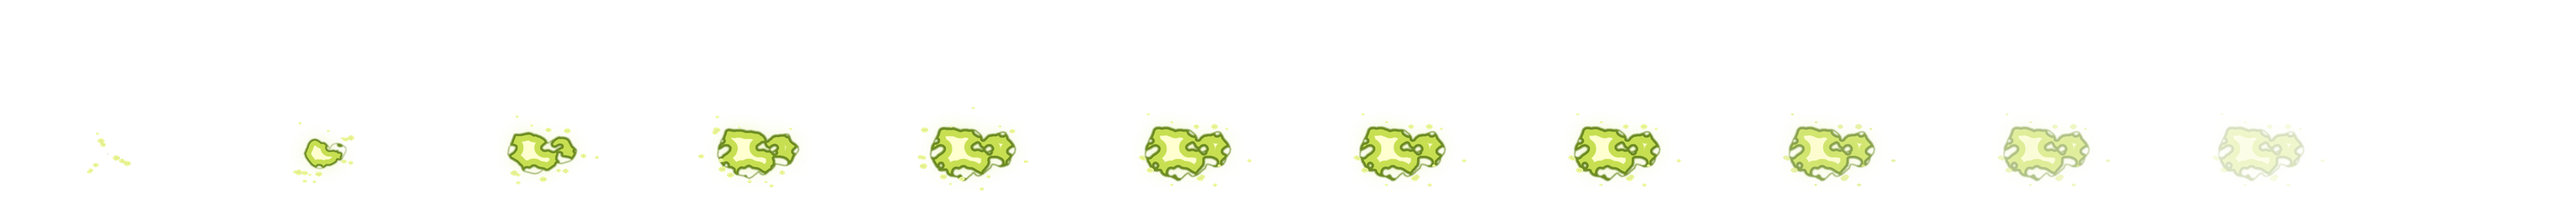
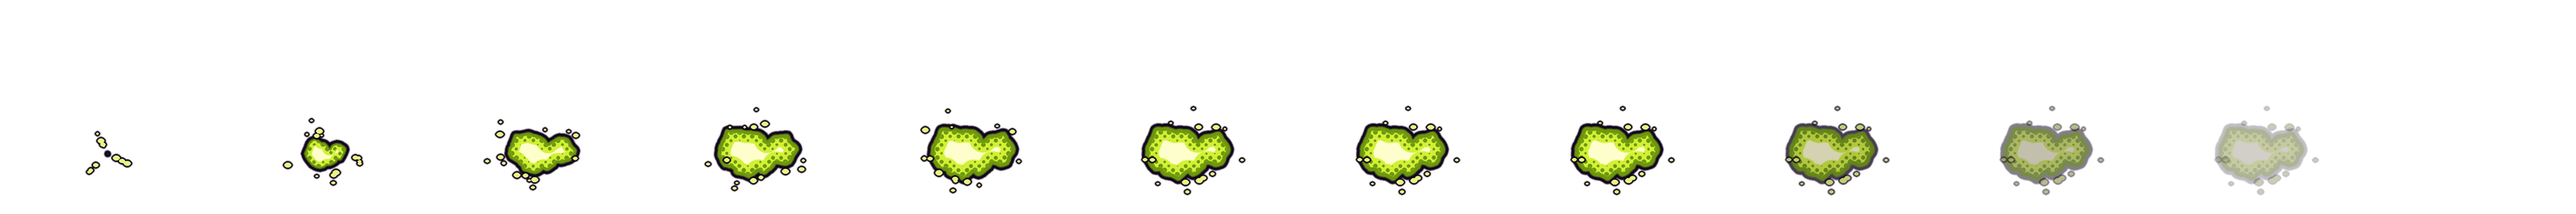
Visual HQ 2: céu de retícula, galáxia do menu mais limpa, efeitos com contorno de tinta e retícula, balões de fala de HQ, cores dos mapas
Claude-Session: https://claude.ai/code/session_019CTdQ6djbXyMqKZUfEDumg

diff --git a/tools/vfxgen.py b/tools/vfxgen.py
@@ -131,6 +131,21 @@ def _over(dst, src):
 
 YY, XX = np.mgrid[0:S, 0:S].astype(float)
 
+# estilo HQ (quadrinho): contorno de tinta, retícula no meio-tom, cores chapadas, sem brilho difuso
+HQ = True
+INK = np.array([16.0, 4.0, 30.0])
+INK_W = 4.0          # espessura do contorno (pixels em 256)
+DOT = 7.0 * SS       # célula da retícula
+_rx = (XX + YY) * 0.70710678 / DOT
+_ry = (XX - YY) * 0.70710678 / DOT
+DOT_D = np.hypot(_rx - np.floor(_rx) - 0.5, _ry - np.floor(_ry) - 0.5)
+
+
+def _vivid(c, k=1.25):
+    c = np.asarray(c, float)
+    l = c.mean()
+    return np.clip(l + (c - l) * k, 0, 255)
+
 
 def render(layers, seed):
     canvas = np.zeros((S, S, 4), float)
@@ -151,7 +166,7 @@ def render(layers, seed):
         depth = distance_transform_edt(inside)
         dn = depth / max(depth.max(), 1.0)
         # buracos (espaço negativo) na região de meio-tom
-        if L.holes > 0:
+        if L.holes > 0 and (not HQ or L.holes > 0.3):
             hn = noise_field(sd + 2, 3.2)
             band = inside & (dn > 0.05) & (dn < 0.55)
             thr = np.quantile(hn[band], 1 - L.holes * 0.55) if band.any() else 2.0
@@ -159,16 +174,30 @@ def render(layers, seed):
             inside = inside & ~cut
             depth = distance_transform_edt(inside)
             dn = depth / max(depth.max(), 1.0)
+        # contorno de tinta (por baixo da forma)
+        if HQ:
+            outside_d = distance_transform_edt(~inside)
+            ring = (outside_d <= INK_W * SS).astype(float)
+            ring = gaussian_filter(ring, 0.6 * SS)
+            _over(canvas, np.dstack([np.broadcast_to(INK, (S, S, 3)), np.clip(ring, 0, 1) * L.alpha]))
         # brilho atrás da forma
-        if L.glow > 0:
+        if L.glow > 0 and not HQ:
             g = gaussian_filter((dn > 0.25).astype(float) + inside * 0.4, 11 * SS) * L.glow * 1.6
             gc = (L.col * 0.5 + L.light * 0.5)
             _over(canvas, np.dstack([np.broadcast_to(gc, (S, S, 3)), np.clip(g, 0, 0.75) * L.alpha]))
         # 3 tons chapados pela profundidade: borda escura / meio / núcleo claro
         lo, mid, hi = L.dark, L.col, L.light
+        if HQ:
+            lo, mid, hi = _vivid(lo, 1.3), _vivid(mid, 1.3), _vivid(hi, 1.1)
         w1 = np.clip((dn - 0.16) / 0.04, 0, 1)[..., None]
         w2 = np.clip((dn - L.core) / 0.05, 0, 1)[..., None]
         rgb = lo * (1 - w1) + mid * w1
+        if HQ:
+            # retícula: pontos da cor da borda no meio-tom, maiores perto da borda
+            t = np.clip(1.0 - (dn - 0.16) / max(L.core - 0.16, 0.05), 0, 1)
+            r = 0.5 * np.sqrt(t) * 0.9
+            dots = np.clip((r - DOT_D) / 0.06 + 0.5, 0, 1)[..., None] * w1 * (1 - w2)
+            rgb = rgb * (1 - dots) + lo * dots
         rgb = rgb * (1 - w2) + hi * w2
         a = gaussian_filter(inside.astype(float), 0.7 * SS)
         _over(canvas, np.dstack([rgb, a * L.alpha]))
@@ -189,8 +218,14 @@ def render(layers, seed):
                 r = (1.2 + rr.random() * 3.2) * SS
                 fd.ellipse([qx - r, qy - r * 0.7, qx + r, qy + r * 0.7], fill=255)
             fm = np.asarray(fl, float) / 255.0
+            if HQ:
+                fring = np.clip(gaussian_filter((distance_transform_edt(fm < 0.5) <= 2.0 * SS).astype(float), 0.5 * SS), 0, 1)
+                _over(canvas, np.dstack([np.broadcast_to(INK, (S, S, 3)), fring * L.alpha]))
             frgb = np.broadcast_to(mid * 0.5 + hi * 0.5, (S, S, 3))
             _over(canvas, np.dstack([frgb, fm * L.alpha]))
+    # some suavemente perto da borda do quadro (nada cortado em linha reta)
+    edge = np.minimum(np.minimum(XX, S - 1 - XX), np.minimum(YY, S - 1 - YY))
+    canvas[..., 3] *= np.clip(edge / (18.0 * SS), 0, 1)
     canvas[..., 3] = np.clip(canvas[..., 3], 0, 1) * 255.0
     img = Image.fromarray(np.clip(canvas, 0, 255).astype(np.uint8), "RGBA")
     return img.resize((OUT, OUT), Image.LANCZOS)
@@ -593,7 +628,7 @@ def build(out_dir, only=None):
     return made
 
 
-def preview(out_dir, path, names, bg=(36, 30, 40)):
+def preview(out_dir, path, names, bg=(120, 200, 255)):
     cols = 6
     th = 110
     img = Image.new("RGBA", (th * cols + 110, th * len(names)), bg + (255,))

diff --git a/tools/skygen_hq.py b/tools/skygen_hq.py
@@ -1,0 +1,81 @@
+"""Céu de espaço no estilo HQ: fundo roxo profundo, nebulosas feitas de retícula
+(pontos coloridos), estrelas de 4 pontas com contorno de tinta e estrelas neon.
+python3 tools/skygen_hq.py -> sky/espaco.jpg (panorama 4096x2048)"""
+import math, os
+import numpy as np
+from PIL import Image, ImageDraw, ImageFilter
+
+W, H = 4096, 2048
+rng = np.random.default_rng(7)
+yy, xx = np.mgrid[0:H, 0:W].astype(np.float32)
+v = yy / H
+# fundo: índigo nos polos, roxo no horizonte
+top = np.array([14, 6, 40], np.float32)
+mid = np.array([52, 18, 98], np.float32)
+k = np.exp(-((v - 0.5) / 0.22) ** 2)[..., None]
+img = top * (1 - k) + mid * k
+
+# nebulosas: campos suaves (soma de gaussianas) em 3 cores
+def field(n, sx, sy, seed):
+    r = np.random.default_rng(seed)
+    f = np.zeros((H, W), np.float32)
+    for _ in range(n):
+        cx, cy = r.uniform(0, W), r.uniform(0.25 * H, 0.75 * H)
+        ax, ay = r.uniform(*sx), r.uniform(*sy)
+        dx = np.minimum(np.abs(xx - cx), W - np.abs(xx - cx))   # dá a volta no panorama
+        f += r.uniform(0.6, 1.0) * np.exp(-(dx / ax) ** 2 - ((yy - cy) / ay) ** 2)
+    return np.clip(f, 0, 1.3)
+
+cols = [np.array([255, 62, 165], np.float32), np.array([41, 216, 255], np.float32), np.array([150, 80, 255], np.float32)]
+fields = [field(5, (260, 520), (120, 260), 1), field(4, (220, 480), (100, 220), 2), field(6, (300, 600), (140, 300), 3)]
+# retícula a 45°
+step = 9.0
+rx = (xx + yy) * 0.7071 / step
+ry = (xx - yy) * 0.7071 / step
+dd = np.hypot(rx - np.floor(rx) - 0.5, ry - np.floor(ry) - 0.5)
+for c, f in zip(cols, fields):
+    body = np.clip(f, 0, 1)[..., None]
+    img = img * (1 - body * 0.45) + c * body * 0.45 * 0.6          # corpo leve da nebulosa
+    r = 0.48 * np.sqrt(np.clip(f, 0, 1))
+    dots = np.clip((r - dd) / 0.05 + 0.5, 0, 1)[..., None] * (body > 0.08)
+    img = img * (1 - dots * 0.45) + c * dots * 0.45
+
+im = Image.fromarray(np.clip(img, 0, 255).astype(np.uint8), "RGB").convert("RGBA")
+d = ImageDraw.Draw(im)
+# poeira de estrelas
+for _ in range(1600):
+    x, y = rng.uniform(0, W), rng.uniform(0, H)
+    r = rng.choice([1.2, 1.6, 2.2], p=[0.6, 0.3, 0.1])
+    d.ellipse([x - r, y - r, x + r, y + r], fill=(255, 250, 235, 255))
+
+def star4(x, y, r, col, ink=True):
+    pts = []
+    for i in range(8):
+        a = math.pi / 4 * i - math.pi / 2
+        rr = r if i % 2 == 0 else r * 0.26
+        pts.append((x + math.cos(a) * rr, y + math.sin(a) * rr))
+    if ink:
+        big = [(x + (px - x) * 1.28, y + (py - y) * 1.28) for px, py in pts]
+        d.polygon(big, fill=(14, 2, 30, 255))
+    d.polygon(pts, fill=col)
+
+def star5(x, y, r, col):
+    pts = []
+    for i in range(10):
+        a = math.pi / 5 * i - math.pi / 2 + rng.uniform(-0.05, 0.05)
+        rr = r if i % 2 == 0 else r * 0.45
+        pts.append((x + math.cos(a) * rr, y + math.sin(a) * rr))
+    big = [(x + (px - x) * 1.22, y + (py - y) * 1.22) for px, py in pts]
+    d.polygon(big, fill=(14, 2, 30, 255))
+    d.polygon(pts, fill=col)
+
+for _ in range(70):
+    star4(rng.uniform(0, W), rng.uniform(0.12 * H, 0.88 * H), rng.uniform(7, 16), (255, 255, 255, 255))
+neon = [(255, 225, 77, 255), (125, 255, 90, 255), (255, 62, 165, 255), (41, 240, 255, 255), (255, 150, 40, 255)]
+for _ in range(16):
+    star5(rng.uniform(0, W), rng.uniform(0.2 * H, 0.8 * H), rng.uniform(14, 26), neon[rng.integers(len(neon))])
+
+out = os.path.join(os.path.dirname(__file__), "..", "sky", "espaco.jpg")
+im.convert("RGB").save(out, quality=90)
+im.convert("RGB").resize((1024, 512)).save("/tmp/claude-0/vit/sky_pv.png")
+print("ok")
